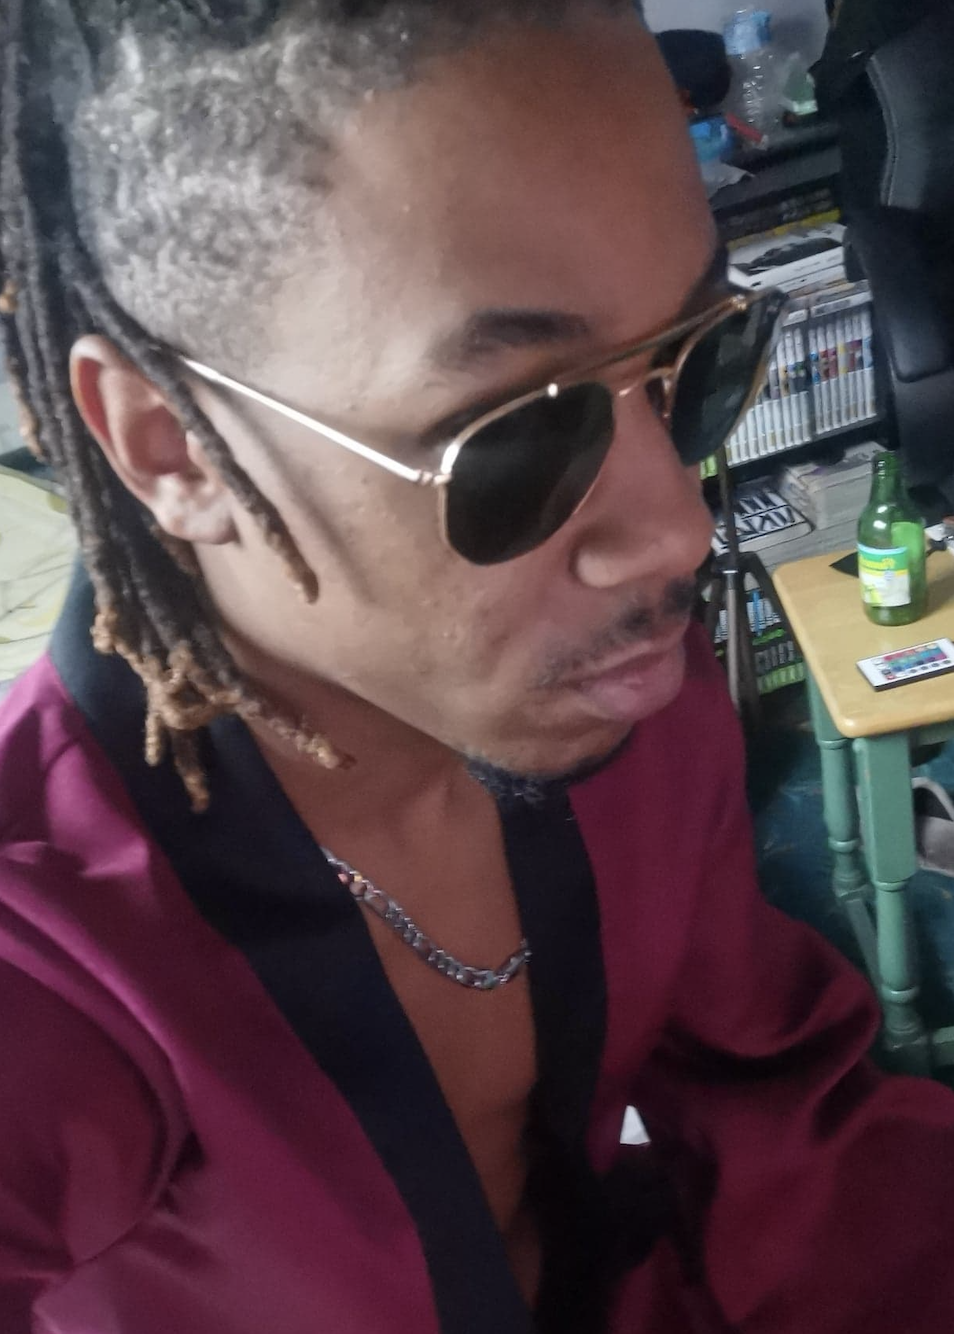
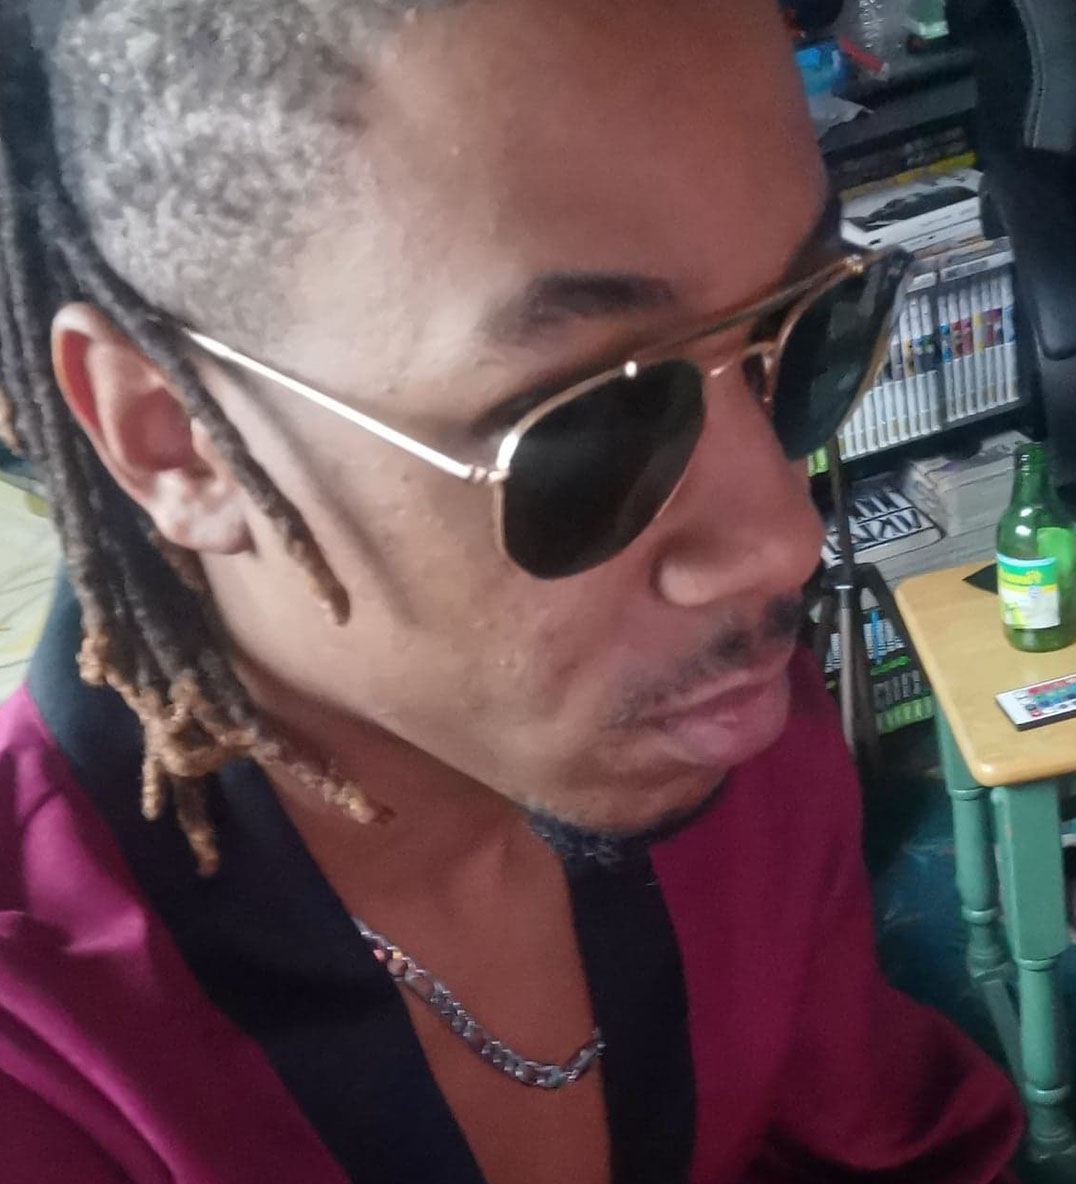
page informations mise a jour

diff --git a/style/informations.css b/style/informations.css
@@ -21,8 +21,74 @@ main {
     padding-bottom: 50px;
 }
 
+p {
+    text-align: center;
+}
+
 h1 {
     color: black;
     text-align: center;
     padding-top: 25px;
+    padding-bottom: 15px;
 }
+
+.content {
+    padding-bottom: 20px;
+}
+
+.titre-sujet {
+    padding: 20px;
+    text-align: center;
+    color: #5f0a87;
+}
+
+.streamer p {
+    margin: 10px;
+    text-align: center;
+}
+
+main img {
+    max-width: 100%; 
+    border-radius: 25px 0 0 25px;
+    border-right: double 6px;
+}
+
+
+.block {
+    border-radius: 25px;
+    -webkit-box-shadow: 0px 0px 20px 3px rgba(207, 207, 207, 1);
+    -moz-box-shadow: 0px 0px 20px 3px rgba(207, 207, 207, 1);
+    box-shadow: 0px 0px 20px 3px rgba(207, 207, 207, 1);
+  }
+
+  .full-row {
+      grid-column: 1/4;
+      display: grid;
+      grid-template-columns: 2fr 2fr;
+    }
+
+    .full-row p{
+        text-align: center;
+    }
+
+    .card {
+        height: 250px;
+        width: 300px;
+        backdrop-filter: blur(5px);
+        border-radius: 15px;
+        border-top: 1px solid rgb(#000);
+        border-left: 1px solid rgb(#000);
+        padding: 10px;
+        border-radius: 25px;
+        -webkit-box-shadow: 0px 0px 20px 3px rgba(207, 207, 207, 1);
+        -moz-box-shadow: 0px 0px 20px 3px rgba(207, 207, 207, 1);
+        box-shadow: 0px 0px 20px 3px rgba(207, 207, 207, 1);
+        }
+    
+    .card .content {
+        display: flex;
+        flex-direction: column;
+        justify-content: center;
+        align-items: center;
+        height: 100%;
+    }

diff --git a/Site/informations.html b/Site/informations.html
@@ -41,7 +41,31 @@
 
         <!--Début de la main page-->
         <main>
-            <h1>Informations</h1>
+            <h1>Infos</h1>
+            <h2 class="titre-sujet">Qui sommes nous ?</h2>
+            <div class="card">
+                <div class="content">
+                    <p>Lorem ipsum dolor sit amet consectetur adipisicing elit. Et eaque quisquam beatae magnam magni voluptate? Repellat provident itaque, nobis deserunt molestiae iure blanditiis dignissimos? Sequi ut excepturi est provident commodi.</p>
+                </div>
+            </div>
+
+            <h2 class="titre-sujet">Nos Streamers</h2>
+
+            <div class="content">
+                <div class="block full-row">
+                    <img src="/pictures/Madaojisan.jpeg"/>
+                    <div class="streamer">
+                        <h3 class="titre-sujet">Madaojisan</h3>
+                        <p>
+                            Hello c'est madao
+                        </p>
+                    </div>
+                </div>
+            </div>
+
+
+
+            <p>Nous comptons sur vous pour rejoindre notre équipage de Streamers!</p>
         </main>
         <!--Fin de la main page-->
 

diff --git a/Site/join-us.html b/Site/join-us.html
@@ -90,7 +90,7 @@
                         <option value="Madaojisan">Madaojisan</option>
                         <option value="Lesombrhero">Lesombrhero</option>
                         <option value="Wiiztoxz">Wiiztoxz</option>
-                        <option value="Lucky-Fail8">Lucky-Fail8</option>
+                        <option value="Luckyfail8">Luckyfail8</option>
                         <option value="Leanou">Leanou</option>
                         <option value="bzh-squad">BZH-SQUAD</option>
                     </select>
